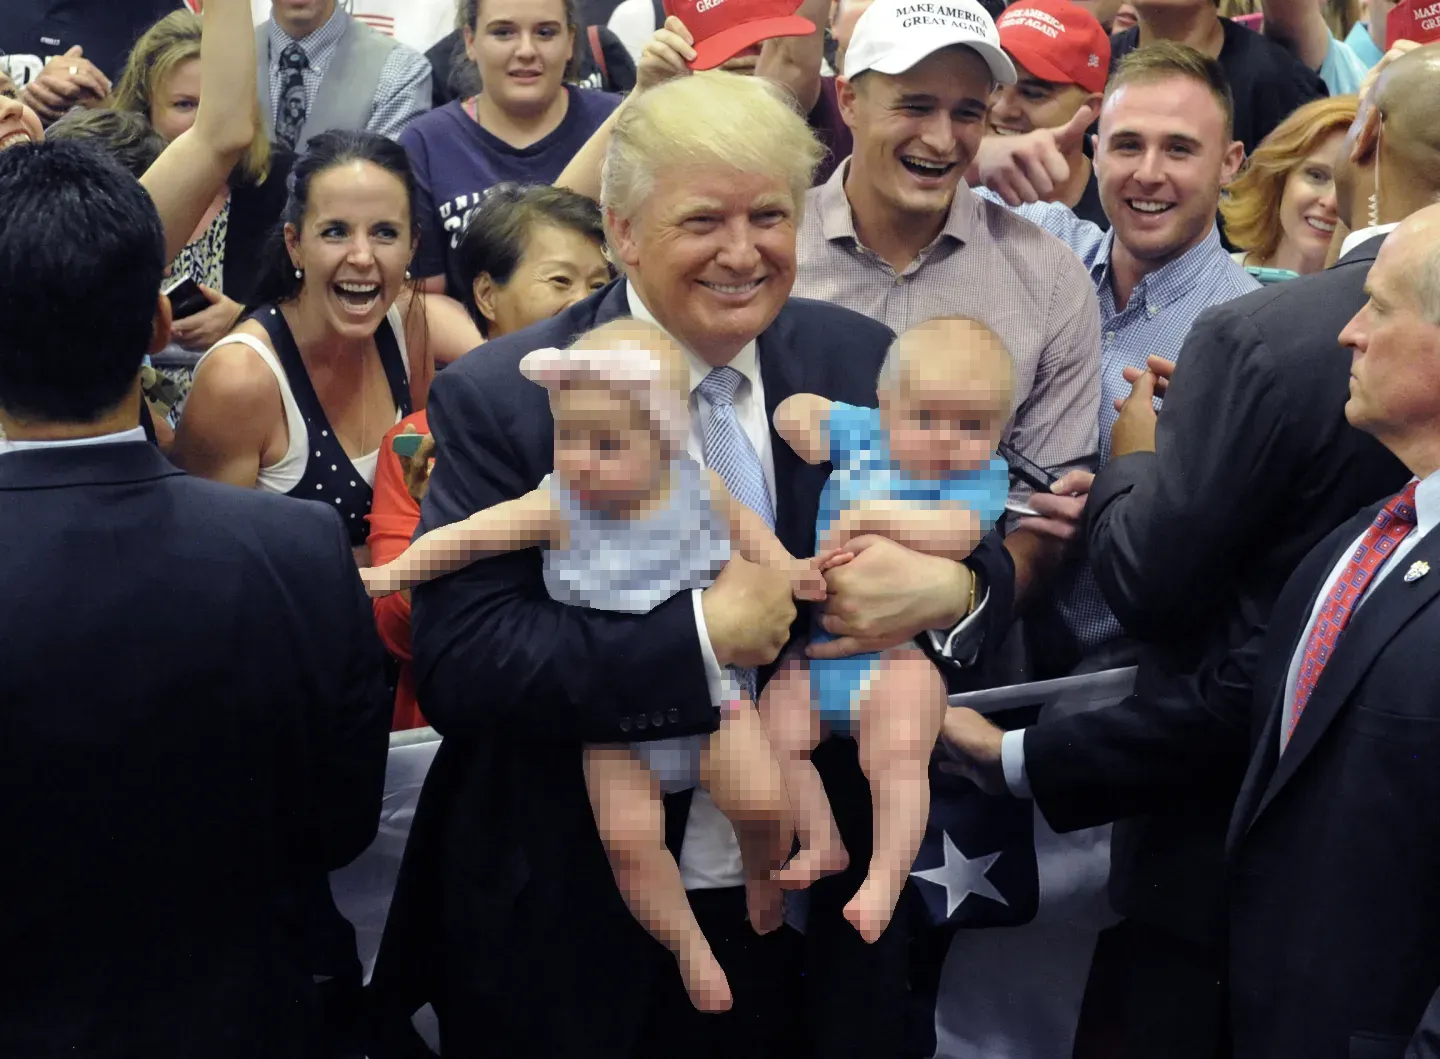
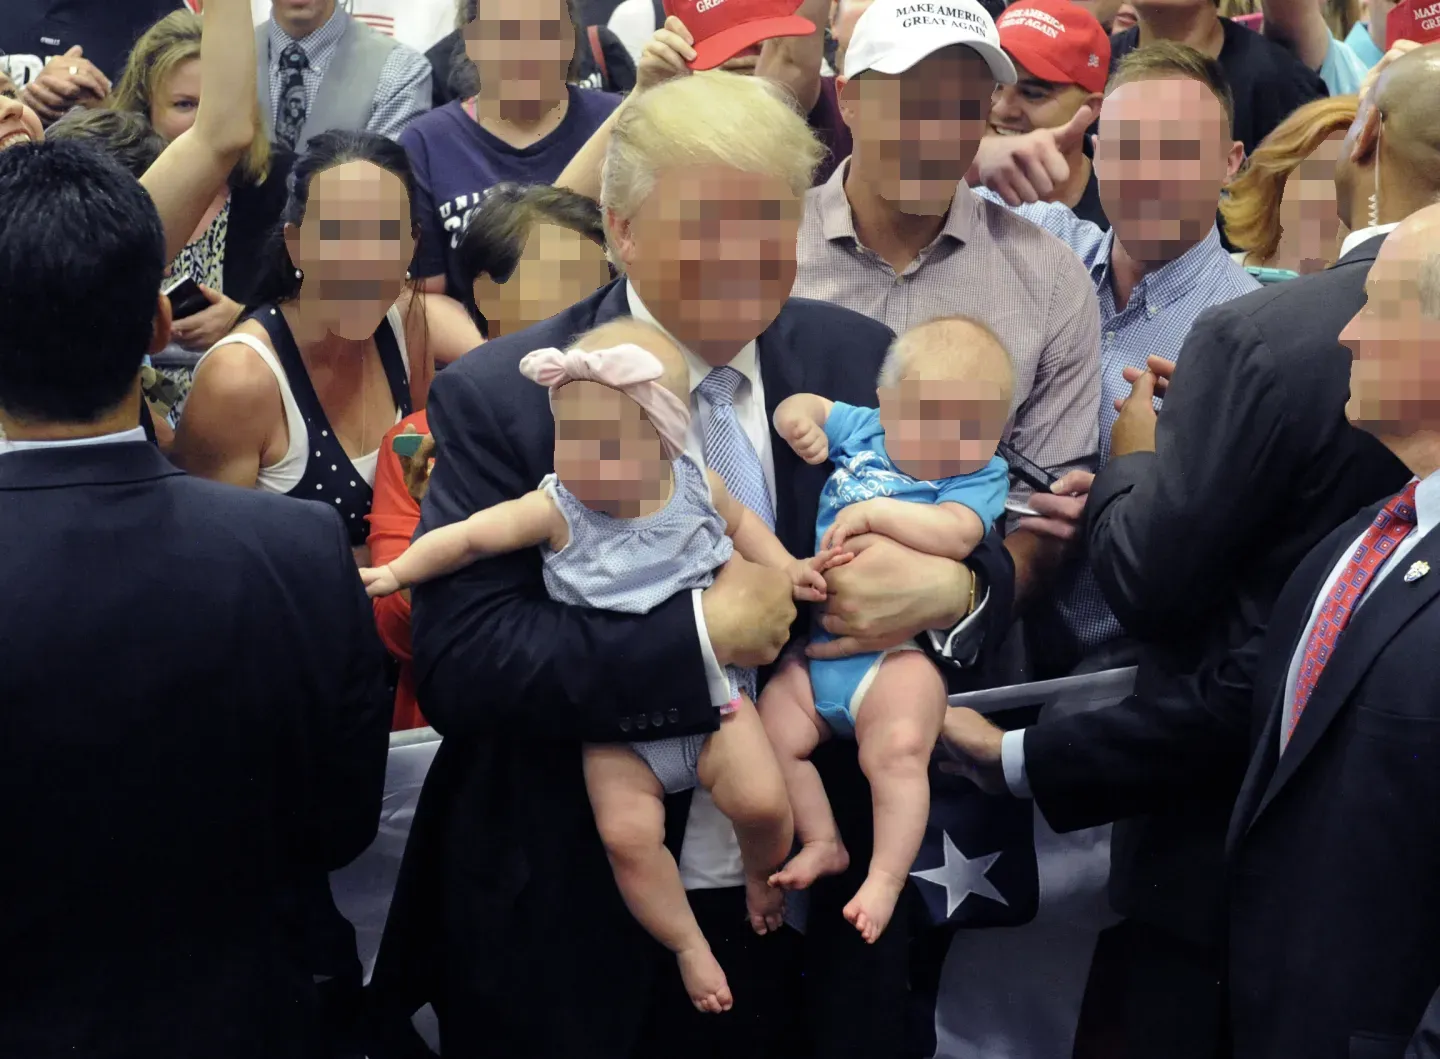
update examples

diff --git a/README.md b/README.md
@@ -1,14 +1,31 @@
 # prompt-blur-anything
 A VLM-based tool to blur objects in images/videos, based on Florence-2 and SMA2.
 
+- Prompt-based Object Detection using Florence-2
+- Boxes from Florence-2 are processed by SAM2 for segmentation
+
+## Examples:
+### Blur babies in the picture
 ```python
 python main.py --image_path test_images/test2.webp --pixelation_size 10  --prompt "baby"
 ```
 
-- Prompt-based Object Detection using Florence-2
-- Boxes from Florence-2 are processed by SAM2 for segmentation
+<div style="display: flex; justify-content: space-between;">
+    <img src="test_images/test2.webp" alt="Image 1" style="width: 30%;"/>
+    <img src="output_segments/test.webp" alt="Image 2" style="width: 30%;"/>
+    <img src="output_images/test.webp" alt="Image 3" style="width: 30%;"/>
+</div>
+
+### Blur all human faces in the picture
+```python
+python main.py --image_path test_images/test2.webp --pixelation_size 10  --prompt "human face"
+```
+
+
 <div style="display: flex; justify-content: space-between;">
     <img src="test_images/test2.webp" alt="Image 1" style="width: 30%;"/>
     <img src="output_segments/test2.webp" alt="Image 2" style="width: 30%;"/>
     <img src="output_images/test2.webp" alt="Image 3" style="width: 30%;"/>
 </div>
+
+
